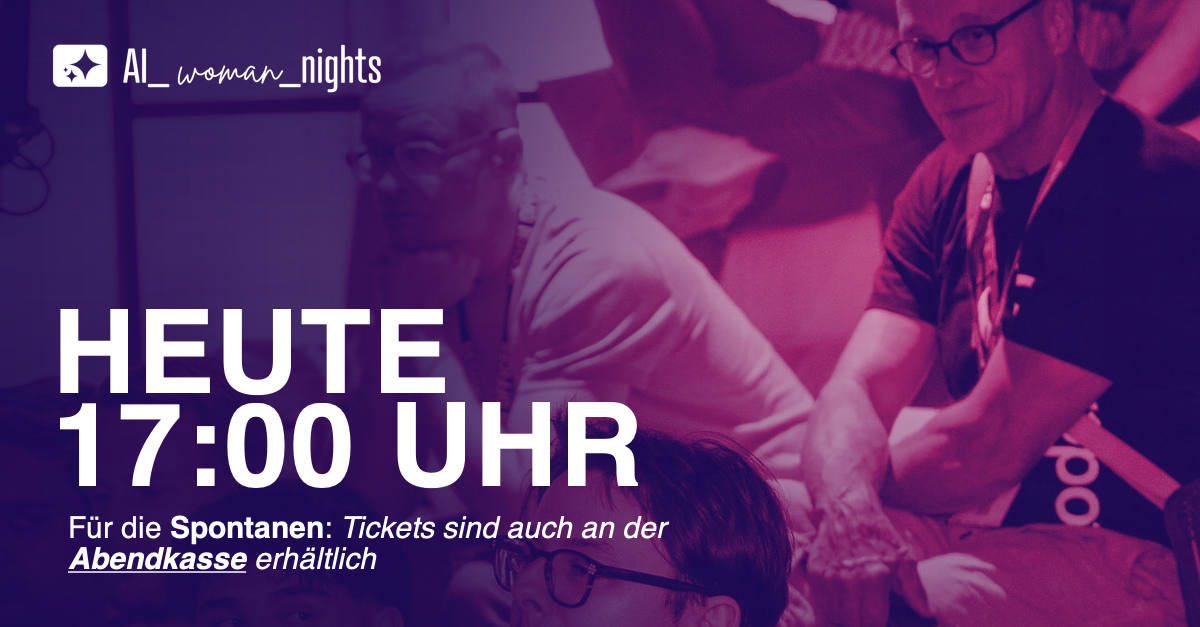
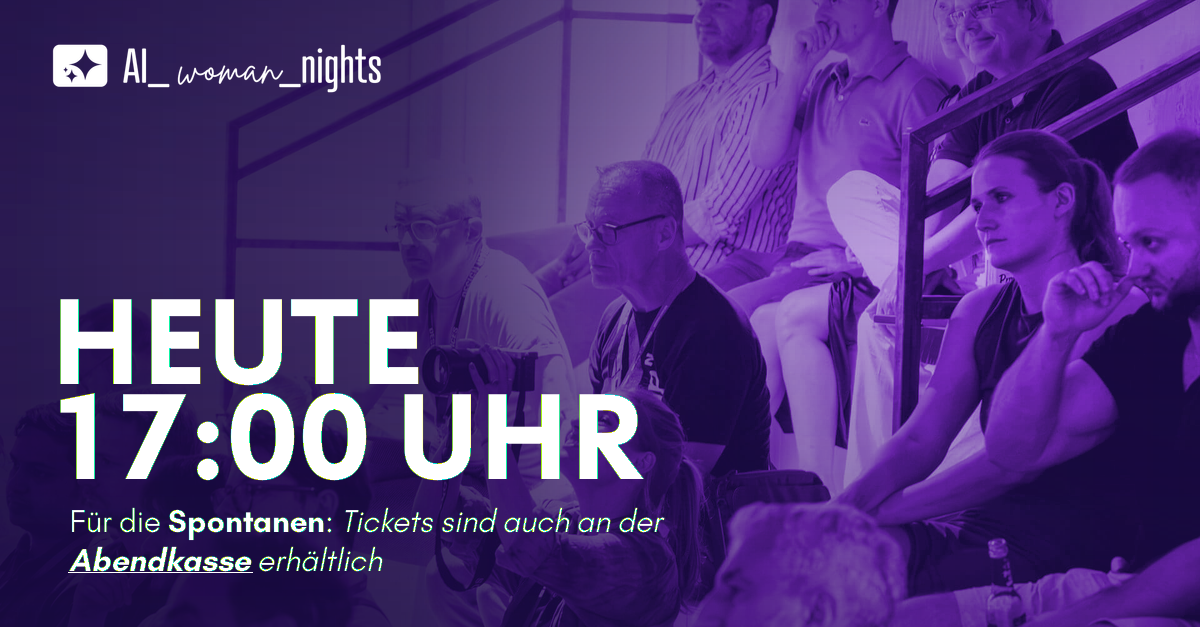
Countdown-Karten „NUR NOCH … TAGE" und Lila für AI Woman Nights (#66)
Baut auf dem LinkedIn-Zuschnitt aus #67 auf und ergänzt zwei Dinge:

--countdown <n> erzeugt dieselbe Karte mit der Headline „NUR NOCH / <n> TAGE"
nach public/media/countdown/, in beiden Zuschnitten. Als Hinweiszeile stehen
dort Datum, Uhrzeit und Stadt statt der Abendkasse — die Location bräche im
Layout mitten im Namen um. Mehrere Stufen auf einmal: --countdown 14,10,2.
Jede Stufe bekommt ein anderes Foto, keines davon das der Event-Tag-Karte:
vier Posts desselben Events in zwei Wochen mit demselben Bild wirken sonst
wie ein Fehler. Die Fotowahl kennt dafür zwei Stufen — hart gesperrt sind die
anderen Karten desselben Events, weich vermieden die anderen Events im Lauf.

AI-Woman-Nights-Events bekommen zusätzlich zum Woman-Lockup eine
Lila-Kolorierung statt des Magenta-Duotones sowie eine eigene Fotoliste mit
Motiven, auf denen Frauen im Publikum zu sehen sind.

- Countdown-Karten für alle anstehenden Events in T-14, T-10 und T-2
  (Nürnberg #05: T-7 und T-2, da T-14 vorbei ist)
- Event-Tag-Karten der beiden Woman-Events neu in Lila
- /tools zeigt die Countdown-Karten je Event und Stufe
- Skill event-social-posts: Countdown-Abschnitt, Lila-Regel und die
  Reihenfolge im Vorlauf

Claude-Session: https://claude.ai/code/session_01VMRFod12d9jT8j3doj1jHz

diff --git a/.claude/skills/event-social-posts/SKILL.md b/.claude/skills/event-social-posts/SKILL.md
@@ -137,10 +137,15 @@ Am Tag des Events geht morgens die Event-Tag-Karte raus
 (`node scripts/generate-event-day.mjs <event-slug>`, Ausgabe unter
 `public/media/event-day/<event-slug>-instagram.png` (Portrait 1080×1350) und
 `-linkedin.png` (Landscape 1200×627, Headline links, Publikum rechts): ein
-zufälliges Publikumsfoto aus der Galerie als Magenta/Blau-Duotone, oben links
+zufälliges Publikumsfoto aus der Galerie als Duotone, oben links
 das Logo, groß **HEUTE** + Uhrzeit (aus `startTime` des Events) und die Zeile
 „Für die Spontanen: Tickets sind auch an der Abendkasse erhältlich".
 
+- **AI Woman Nights**: Woman-Lockup als Logo und **Lila-Duotone** statt
+  Magenta — das macht das Script anhand des Slugs von allein. Die Fotos
+  kommen dort aus einer eigenen Liste (`AUDIENCE_WOMAN`) mit Motiven, auf
+  denen Frauen im Publikum zu sehen sind; die allgemeine Liste landet sonst
+  leicht auf einer reinen Männerrunde.
 - **Termin: Event-Tag, 09:00 Uhr**, Instagram *und* LinkedIn als zwei
   getrennte Posts. Liegt an dem Tag schon etwas um 09:00 (z. B. ein
   Speaker-Intro eines anderen Events), auf 11:00 ausweichen — vorher
@@ -166,6 +171,56 @@ das Logo, groß **HEUTE** + Uhrzeit (aus `startTime` des Events) und die Zeile
 
   #ainights #ki #<stadt> #heute #afterwork
   ```
+
+### Countdown: „NUR NOCH 14 TAGE"
+
+Im Vorlauf läuft dieselbe Karte als Countdown
+(`node scripts/generate-event-day.mjs <event-slug> --countdown 14,10,2`,
+Ausgabe unter `public/media/countdown/<event-slug>-<n>-instagram.png` bzw.
+`-linkedin.png`). Gleiche Optik, gleiche zwei Zuschnitte, gleiche Lila-Regel
+für Woman-Events — nur die Headline lautet **NUR NOCH / \<n\> TAGE**, und die
+Hinweiszeile trägt statt der Abendkasse **Datum, Uhrzeit und Stadt**. Die
+Location steht im Post-Text, nicht auf der Karte: sie bricht sonst mitten im
+Namen um.
+
+- Bewährter Rhythmus: **14, 10 und 2 Tage vorher**, jeweils 09:00 Uhr,
+  Instagram und LinkedIn als zwei getrennte Posts.
+- `--countdown` nimmt jede Zahl und mehrere Stufen auf einmal
+  (`--countdown 1` ergibt „NUR NOCH 1 TAG"). Ein Lauf mit mehreren Stufen
+  gibt jeder Stufe automatisch ein anderes Foto — auch verschieden vom Foto
+  der Event-Tag-Karte. Vier Posts desselben Events innerhalb von zwei Wochen
+  mit demselben Bild wirken sonst wie ein Fehler.
+- Die Sperre greift nur innerhalb eines Laufs. Werden Event-Tag- und
+  Countdown-Karten getrennt erzeugt, die Fotos **gegenprüfen** (das Script
+  gibt sie pro Karte aus) und Doppler mit `--image` auflösen. Bei
+  AI-Woman-Nights ist die Fotoliste nur vier Motive lang — Event-Tag plus
+  drei Countdown-Stufen schöpfen sie exakt aus.
+- Der 09:00-Slot kollidiert oft mit einem #speakerintro (die liegen 5/4/3
+  Wochen vorher ebenfalls auf 09:00) — vorher `getScheduledPosts` prüfen und
+  bei Kollision auf **11:00** gehen. Die Countdown-Zahl auf der Karte muss
+  zum Termin passen: lieber die Stufe wechseln (`--countdown 7`) als den
+  Post zu verschieben.
+- Textmuster:
+
+  ```
+  Nur noch <n> Tage bis <Event-Titel>! ⏳
+
+  <Ein Satz zum Abend: Speaker/Talks, wenn das Line-up steht, sonst allgemein.>
+
+  🗓 <Datum> — ab <Uhrzeit> Uhr
+  📍 <Location>, <Stadt>
+  🥂 Drinks & Snacks inklusive
+
+  Tickets & alle Infos <Instagram: „auf ainights.ai — Link in Bio!" / LinkedIn: volle Event-URL> 🎟
+
+  #ainights #ki #<stadt> #countdown #afterwork
+  ```
+
+### Reihenfolge im Vorlauf
+
+Save the Date (~8 Wochen) → #speakerintro je Slot (5/4/3 Wochen) →
+**Countdown T-14** → Line-up (1 Woche) → **Countdown T-10 und T-2** →
+Event-Tag (09:00).
 
 ## Schritt 3: Posts anlegen
 
